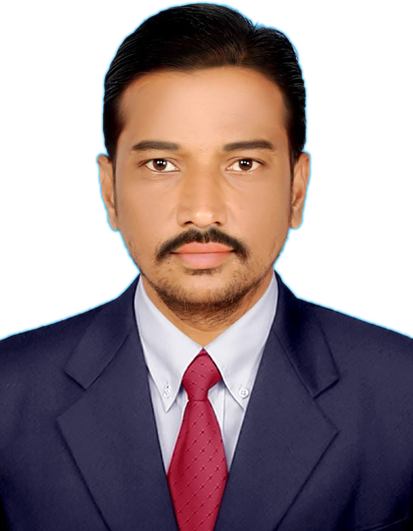
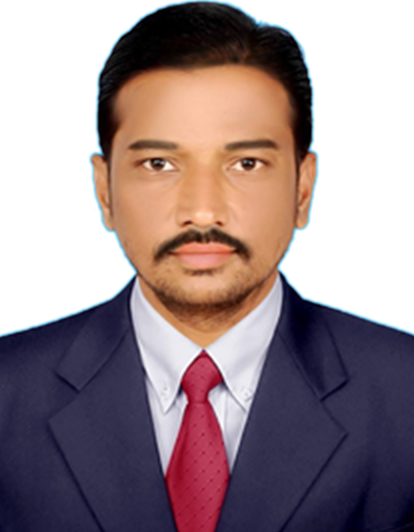
updated about

diff --git a/about.html b/about.html
@@ -7,6 +7,28 @@
 	    <meta name="viewport" content="width=device-width, initial-scale=1.0">
 	    <link rel="shortcut icon" type="image/png" href="images/favicon.png">
 	    <link rel="stylesheet" type="text/css" href="style.css">
+	    <style>
+	    h1.cors{
+			margin-top: 1.5%;
+			margin-left: 1.5%;
+			font-family: tahoma;
+			font-weight: normal;
+			font-size: 230%;
+			color: #060101;
+	    	}
+	    	.bdrn{
+			 background-color: #FCB7BA;
+			 padding: 10px;
+			 margin: 10px;
+			 border-left: 2px solid red;
+			 text-align: center;
+			 font-family: Trebuchet MS;
+}
+	    	h3{
+	   	font-family: candara light;
+	   	margin: 25px;
+	   	text-indent: 75px;
+	    </style>
 	</head>
 	<body>
 		<div class="mh">
@@ -14,7 +36,7 @@
 		<h1 class="alister">ALISTER</h1>
 		<h1 class="english">ENGLISH</h1>
 		<h1 class="acdmy">ACADEMY</h1>
-		<p class="no1">The NO.1 spoken institute in Kurnool dist.</p>
+		<p class="no1">The NO.1 english institute in Kurnool dist.</p>
 		</div>
 			<div class="one">
 				<a href="index.html">Home</a>
@@ -26,11 +48,33 @@
 				<a href="contact.html">Contact</a>
 			</div>
 
-	<h3>Alister established in 2000.</h3>
+	<figure style="border: 3px solid #125477;background-color: #F0F0F0;border-radius: 25px 25px 0px 0px; float: right; margin-right: 5%; margin-top: 2%; margin-left: 5%; text-align: center;">
+	<img src="images/apf.png" alt="Ali sir" width="214" height="232">
+	<figcaption style="background-color: #125477;color: white; font-size: 150%;margin-top: -4px; font-family: Cambria;">S Mohammed Ali</figcaption>
+	<figcaption style="background-color: #125477;color: white;">M.A, M.B.A, M.B.B.S, X.X.X.X </figcaption>
+	</figure>
 
-	<img src="images/apf.png" alt="Ali sir" style="border: 3px red;">
+	<h3 style="padding: 40px;">Alister English Academy established in the year 2000 with motive of bla bla bla bla bla bla bla bla bla bla bla bla bla bla bla bla bla bla bla bla bla bla bla bla bla bla bla bla bla bla bla bla bla bla bla bla bla bla bla bla bla bla bla bla bla bla bla bla bla bla bla bla bla bla bla bla bla bla bla bla bla bla bla bla bla bla bla bla bla bla bla bla bla bla bla bla bla bla bla bla bla bla bla bla bla bla bla bla bla bla bla bla bla bla bla bla bla bla bla bla bla bla bla bla bla bla bla bla bla bla bla bla bla bla bla bla bla bla bla bla bla bla bla bla bla bla bla bla bla bla bla bla bla bla bla bla bla bla bla bla &gt;&gt;<br><br>
+	&emsp;&lt;&lt; bla bla bla bla bla bla bla bla bla bla bla bla bla bla bla bla bla bla bla bla bla bla bla bla bla bla bla bla bla bla bla bla bla bla bla bla bla bla bla bla bla bla bla bla bla bla bla bla bla bla bla bla bla bla bla bla bla bla bla bla bla bla bla bla bla bla bla bla bla bla bla bla bla bla bla bla bla bla bla bla bla bla bla bla bla bla bla bla.&gt;&gt;</h3>
+		
+	<h1 class="cors">Vision</h1>
+		<hr>
+		<h3>&emsp; &lt;&lt; bla bla bla bla bla bla bla bla bla bla bla bla bla bla bla bla bla bla bla bla bla bla bla bla bla bla bla bla bla bla bla bla bla bla bla bla bla bla bla bla bla bla bla bla bla bla bla bla bla bla bla bla bla bla bla bla bla bla bla bla bla bla bla bla bla bla bla bla bla bla bla bla bla bla bla bla bla bla bla bla bla bla bla bla bla bla bla bla bla bla bla bla bla bla bla bla bla bla bla bla bla bla bla bla bla bla bla bla bla bla bla bla bla bla bla bla bla bla bla bla bla bla bla bla bla bla bla bla bla bla bla bla bla bla bla bla bla bla bla bla bla bla bla bla bla bla bla bla bla bla bla bla bla bla bla bla bla bla bla bla bla bla bla bla bla bla bla bla bla bla bla bla bla bla bla bla &gt;&gt; <br><br>
+		&emsp;&lt;&lt; bla bla bla bla bla bla bla bla bla bla bla bla bla bla bla bla bla bla bla bla bla bla bla bla bla bla bla bla bla bla bla bla bla bla bla bla bla bla bla bla bla bla bla bla bla bla bla bla bla bla bla bla bla bla bla bla bla bla bla bla bla bla bla bla bla bla bla bla bla bla bla bla bla bla bla bla bla bla bla bla bla bla bla bla bla bla bla bla.&gt;&gt;</h3>
+	</h3>
 
-	<div class="foot">
+<h1 class="cors">Mission</h1>
+		<hr>
+		<h3>&emsp; &lt;&lt; bla bla bla bla bla bla bla bla bla bla bla bla bla bla bla bla bla bla bla bla bla bla bla bla bla bla bla bla bla bla bla bla bla bla bla bla bla bla bla bla bla bla bla bla bla bla bla bla bla bla bla bla bla bla bla bla bla bla bla bla bla bla bla bla bla bla bla bla bla bla bla bla bla bla bla bla bla bla bla bla bla bla bla bla bla bla bla bla bla bla bla bla bla bla bla bla bla bla bla bla bla bla bla bla bla bla bla bla bla bla bla bla bla bla bla bla bla bla bla bla bla bla bla bla bla bla bla bla bla bla bla bla bla bla bla bla bla bla bla bla bla bla bla bla bla bla bla bla bla bla bla bla bla bla bla bla bla bla bla bla bla bla bla bla bla bla bla bla bla bla bla bla bla bla bla bla &gt;&gt; <br><br>
+		&emsp;&lt;&lt; bla bla bla bla bla bla bla bla bla bla bla bla bla bla bla bla bla bla bla bla bla bla bla bla bla bla bla bla bla bla bla bla bla bla bla bla bla bla bla bla bla bla bla bla bla bla bla bla bla bla bla bla bla bla bla bla bla bla bla bla bla bla bla bla bla bla bla bla bla bla bla bla bla bla bla bla bla bla bla bla bla bla bla bla bla bla bla bla.&gt;&gt;</h3>
+	</h3>
+
+<h1 class="cors">Xxxxxx</h1>
+		<hr>
+		<h3>&lt;&lt; bla bla bla bla bla bla bla bla bla bla bla bla bla bla bla bla bla bla bla bla bla bla bla bla bla bla bla bla bla bla bla bla bla bla bla bla bla bla bla bla bla bla bla bla bla bla bla bla bla bla bla bla bla bla bla bla bla bla bla bla bla bla bla bla bla bla bla bla bla bla bla bla bla bla bla bla bla bla bla bla bla bla bla bla bla bla bla bla bla bla bla bla bla bla bla bla bla bla bla bla bla bla bla bla bla bla bla bla bla bla bla bla bla bla bla bla bla bla bla bla bla bla bla bla bla bla bla bla &gt;&gt; <br><br>&lt;&lt; bla bla bla bla bla bla bla bla bla bla bla bla bla bla bla bla bla bla bla bla bla bla bla bla bla bla bla bla bla bla bla bla bla bla bla bla bla bla bla bla bla bla bla bla bla bla bla bla bla bla bla bla bla bla bla bla bla bla bla bla bla bla bla bla bla bla bla bla bla bla bla bla bla bla bla bla bla bla bla bla bla bla bla bla bla bla bla bla.&gt;&gt;<br><br>&lt;&lt; bla bla bla bla bla bla bla bla bla bla bla bla bla bla bla bla bla bla bla bla bla bla bla bla bla bla bla bla bla bla bla bla bla bla bla bla bla bla bla bla bla bla bla bla bla bla bla bla bla bla bla bla bla bla bla bla bla bla bla bla bla bla bla bla bla bla bla bla bla bla bla bla bla bla bla bla bla bla bla bla bla bla bla bla bla bla bla bla.&gt;&gt;<br><br>&lt;&lt; bla bla bla bla bla bla bla bla bla bla bla bla bla bla bla bla bla bla bla bla bla bla bla bla bla bla bla bla bla bla bla bla bla bla bla bla bla bla bla bla bla bla bla bla bla bla bla bla bla bla bla bla bla bla bla bla bla bla bla bla bla bla bla bla bla bla bla bla bla bla bla bla bla bla bla bla bla bla bla bla bla bla bla bla bla bla bla bla.&gt;&gt;</h3>
+	</h3>
+
+	<div class="foot-al">
 			<p>&copy; Alister english academy 2019</p>
 		</div>
 	</body>

diff --git a/courses.html b/courses.html
@@ -8,7 +8,7 @@
 	    <link rel="shortcut icon" type="image/png" href="images/favicon.png">
 	    <link rel="stylesheet" type="text/css" href="style.css">
 	    <style>
-	    	h1.cors{
+	    	.cors{
 			margin-top: 1.5%;
 			margin-left: 1.5%;
 			font-family: tahoma;
@@ -16,6 +16,17 @@
 			font-size: 230%;
 			color: #060101;
 	    	}
+	    	.bdrn{
+			 background-color: #E3E7AA;
+			 padding: 10px;
+			 margin: 10px;
+			 border-left: 4px solid #9C7407;
+			font-size: 150%;
+			border-radius: 0 15px 15px 0;
+			margin-left: 2.5%;
+			width: 350px;
+			font-family: Trebuchet MS;
+			}
 	    	h3{
 		   	font-family: candara light;
 		   	margin: 25px;
@@ -53,6 +64,51 @@
 		<h3>Spoken, &emsp; &lt;&lt; bla bla bla bla bla bla bla bla bla bla bla bla bla bla bla bla bla bla bla bla bla bla bla bla bla bla bla bla bla bla bla bla bla bla bla bla bla bla bla bla bla bla bla bla bla bla bla bla bla bla bla bla bla bla bla bla bla bla bla bla bla bla bla bla bla bla bla bla bla bla bla bla bla bla bla bla bla bla bla bla bla bla bla bla bla bla bla bla bla bla bla bla bla bla bla bla bla bla bla bla bla bla bla bla bla bla bla bla bla bla bla bla bla bla bla bla bla bla bla bla bla bla bla bla bla bla bla bla bla bla bla bla bla bla bla bla bla bla bla bla bla bla bla bla bla bla bla bla bla bla bla bla bla bla bla bla bla bla bla bla bla bla bla bla bla bla bla bla bla bla bla bla bla bla bla bla &gt;&gt;</h3>
 		<h1 class="cors">Level 4</h1> <hr>
 		<h3>Advanced, &emsp; &lt;&lt; bla bla bla bla bla bla bla bla bla bla bla bla bla bla bla bla bla bla bla bla bla bla bla bla bla bla bla bla bla bla bla bla bla bla bla bla bla bla bla bla bla bla bla bla bla bla bla bla bla bla bla bla bla bla bla bla bla bla bla bla bla bla bla bla bla bla bla bla bla bla bla bla bla bla bla bla bla bla bla bla bla bla bla bla bla bla bla bla bla bla bla bla bla bla bla bla bla bla bla bla bla bla bla bla bla bla bla bla bla bla bla bla bla bla bla bla bla bla bla bla bla bla bla bla bla bla bla bla bla bla bla bla bla bla bla bla bla bla bla bla bla bla bla bla bla bla bla bla bla bla bla bla bla bla bla bla bla bla bla bla bla bla bla bla bla bla bla bla bla bla bla bla bla bla bla bla &gt;&gt;</h3>
+
+		<br><br><br>
+
+		<p class="bdrn">Few responses from students</p>
+		
+		<div style="float: left; width: 400px; height: 100px; background-color: #7272F8; border-radius: 60px 0 60px 0;margin: 40px 0 0 15%; font-family: calibri;">
+			<p style="padding-top: 20px;padding-left: 25px; color: white; font-size: 120%;">I'm from telugu medium background & I speak english. <br>
+			&emsp;&emsp;&emsp;&emsp;<i>-k.nagappa, a villager.</i></p>
+		</div>
+
+		<div style="float: left;width: 400px; height: 100px; background-color: #F35ED5; border-radius: 60px 0 60px 0;margin: 10% 0 0 -5%; font-family: calibri;">
+			<p style="padding-top: 20px;padding-left: 25px; color: white; font-size: 120%;">I'm an illiterate after joining alister I'm able to read, write & speak english. <br>
+			&emsp;&emsp;&emsp;&emsp;<i>-s.prashanth, was illeterate.</i></p>
+		</div>
+		
+		<div style="float: left;width: 400px; height: 100px; background-color: #58AF5E; border-radius: 60px 0 60px 0; margin: -1% 0 0 -1%; font-family: calibri;">
+			<p style="padding-top: 20px;padding-left: 25px; color: white; font-size: 120%;">I'm XXXX XXX  XXXXX  XX  XXXXX   XXXX   XX  X  XXXX  XXXX XXXXXX. <br>
+			&emsp;&emsp;&emsp;&emsp;<i>-xxxxxxxx, a school dropout.</i></p>
+		</div>
+
+		<div style="float: left;width: 400px; height: 120px; background-color: #C75EF3; border-radius: 60px 0 60px 0;margin: 12% 40px 40px 40px; font-family: calibri;">
+			<p style="padding-top: 20px;padding-left: 25px; color: white; font-size: 120%;">I'm good at english but weak in communication skills after completion of level 4, I got hired in MNC. <br>
+			&emsp;&emsp;&emsp;&emsp;<i>-xxxxxxxx, MBA student.</i></p>
+		</div>
+		
+		<div style="float: left;width: 300px; height: 80px; background-color: #F3A45E; border-radius: 60px 0 60px 0;margin: -10% 40px 40px 25%; font-family: calibri;">
+			<p style="padding-top: 20px;text-align: center; color: white; font-size: 120%;">Advancement of english is here!!! <br>
+			&emsp;&emsp;&emsp;&emsp;&emsp;&emsp;&emsp;&emsp;<i>-hazrath.</i></p>
+		</div>
+		
+		<div style="float: left;width: 400px; height: 100px; background-color: #4FB7E2; border-radius: 60px 0 60px 0;margin: -2% 0 10% 8%; font-family: calibri;">
+			<p style="padding-top: 20px;padding-left: 25px; color: white; font-size: 120%;">Alister allows to practice ourselves with my friends in free time in the institute.<br>
+			&emsp;&emsp;&emsp;&emsp;&emsp;&emsp;&emsp;&emsp;&emsp;&emsp;<i>-muni reddy.</i></p>
+		</div>
+		
+		<div style="float: left;width: 400px; height: 100px; background-color: #F35E77; border-radius: 60px 0 60px 0;margin: 1% 0 10% 15%; font-family: calibri;">
+			<p style="padding-top: 20px;padding-left: 25px; color: white; font-size: 120%;">I understood how easy is english after joining alister english academy.<br>
+			&emsp;&emsp;&emsp;&emsp;&emsp;&emsp;&emsp;&emsp;<i>-praveen.</i></p>
+		</div>
+		
+		<div style="float: left;width: 300px; height: 100px; background-color: #716D6D; border-radius: 60px 0 60px 0;margin: -11% 40px 40px 28%; font-family: calibri;">
+			<p style="padding-top: 20px;text-align: center; color: white; font-size: 120%;">Classmates are supportive for speaking english.<br>
+			&emsp;&emsp;&emsp;&emsp;&emsp;&emsp;&emsp;&emsp;<i>-eerappa.</i></p>
+		</div>
+		
 
 		<div class="foot-al">
 			<p>&copy; Alister english academy 2019</p>

diff --git a/activities.html b/activities.html
@@ -33,13 +33,28 @@
 			
 			</div>
 
-		<h3>Based on type of course different activies are conducted like Stage performance, JAM, Group discussion, Debate, PPT presentations, Project works etc., <br> &emsp; &lt;&lt; bla bla bla bla bla bla bla bla bla bla bla bla bla bla bla bla bla bla bla bla bla bla bla bla bla bla bla bla bla bla bla bla bla bla bla bla bla bla bla bla bla bla bla bla bla bla bla bla bla bla bla bla bla bla bla bla bla bla bla bla bla bla bla bla bla bla bla bla bla bla bla bla bla bla bla bla bla bla bla bla bla bla bla bla bla bla bla bla bla bla bla bla bla bla bla bla bla bla bla bla bla bla bla bla bla bla bla bla bla bla bla bla bla bla bla bla bla bla bla bla bla bla bla bla bla bla bla bla bla bla bla bla bla bla bla bla bla bla bla bla bla bla bla bla bla bla bla bla bla bla bla bla bla bla bla bla bla bla bla bla bla bla bla bla bla bla bla bla bla bla bla bla bla bla bla bla &gt;&gt; <br>
+		<h3>Based on type of course different activies are conducted like Stage performance, JAM, Group discussion, Debate, PPT presentations, Project works etc., <br> &emsp; &lt;&lt; bla bla bla bla bla bla bla bla bla bla bla bla bla bla bla bla bla bla bla bla bla bla bla bla bla bla bla bla bla bla bla bla bla bla bla bla bla bla bla bla bla bla bla bla bla bla bla bla bla bla bla bla bla bla bla bla bla bla bla bla bla bla bla bla bla bla bla bla bla bla bla bla bla bla bla bla bla bla bla bla bla bla bla bla bla bla bla bla bla bla bla bla bla bla bla bla bla bla bla bla bla bla bla bla bla bla bla bla bla bla bla bla bla bla bla bla bla bla bla bla bla bla bla bla bla bla bla bla bla bla bla bla bla bla bla bla bla bla bla bla bla bla bla bla bla bla bla bla bla bla bla bla bla bla bla bla bla bla bla bla bla bla bla bla bla bla bla bla bla bla bla bla bla bla bla bla &gt;&gt; <br><br>
 		Checkout few performances by students:</h3>
 
-		<iframe width="420" height="345" src="https://www.youtube.com/embed/8v4MDrWvrc8"> 
-	</iframe>
+		<div>
+			<iframe style="margin-left: 1.5%; float: left; margin-bottom: 40px;" width="480" height="250" src="https://www.youtube.com/embed/8v4MDrWvrc8"></iframe>
+		
+			<iframe style="float: left; margin-left: 1%; margin-bottom: 40px;" width="480" height="250" src="https://www.youtube.com/embed/x_aQL5PJWSw"></iframe>
+			
+			<iframe style="margin-left: 1%; float: left; margin-bottom: 40px;" width="480" height="250" src="https://www.youtube.com/embed/9Kz2-UIrito"></iframe>
 
-		<div class="foot">
+			<iframe style="margin-left: 1.5%; float: left; margin-bottom: 40px;" width="480" height="250" src="https://www.youtube.com/embed/MAB59kLP18o"></iframe>
+		
+			<iframe style="flat: right;margin-left: 1%; margin-bottom: 40px;" width="480" height="250" src="https://www.youtube.com/embed/IMQY443lhiU"></iframe>
+			
+			<iframe style="margin-left: 1%; float: left; margin-bottom: 40px;" width="480" height="250" src="https://www.youtube.com/embed/FSuXlRGdLPU"></iframe>
+
+			
+		</div>
+		
+		<h3> &lt;&lt; bla bla bla bla bla bla bla bla bla bla bla bla bla bla bla bla bla bla bla bla bla bla bla bla bla bla bla bla bla bla bla bla bla bla bla bla bla bla bla bla bla bla bla bla bla bla bla bla bla bla bla bla bla bla bla bla bla bla bla bla bla bla bla bla bla bla bla bla bla bla bla bla bla bla bla bla bla bla bla bla bla bla bla bla bla bla bla bla bla bla bla bla bla bla bla bla bla bla bla bla bla bla bla bla bla bla bla bla bla bla bla bla bla bla bla bla bla bla bla bla bla bla bla bla bla bla bla bla bla bla bla bla bla bla bla bla bla bla bla bla bla bla bla bla bla bla bla bla bla bla bla bla bla bla bla bla bla bla bla bla bla bla bla bla bla bla bla bla bla bla bla bla bla bla bla bla &gt;&gt;</h3>
+
+		<div class="foot-al">
 			<p>&copy; Alister english academy 2019</p>
 		</div>
 	</body>
